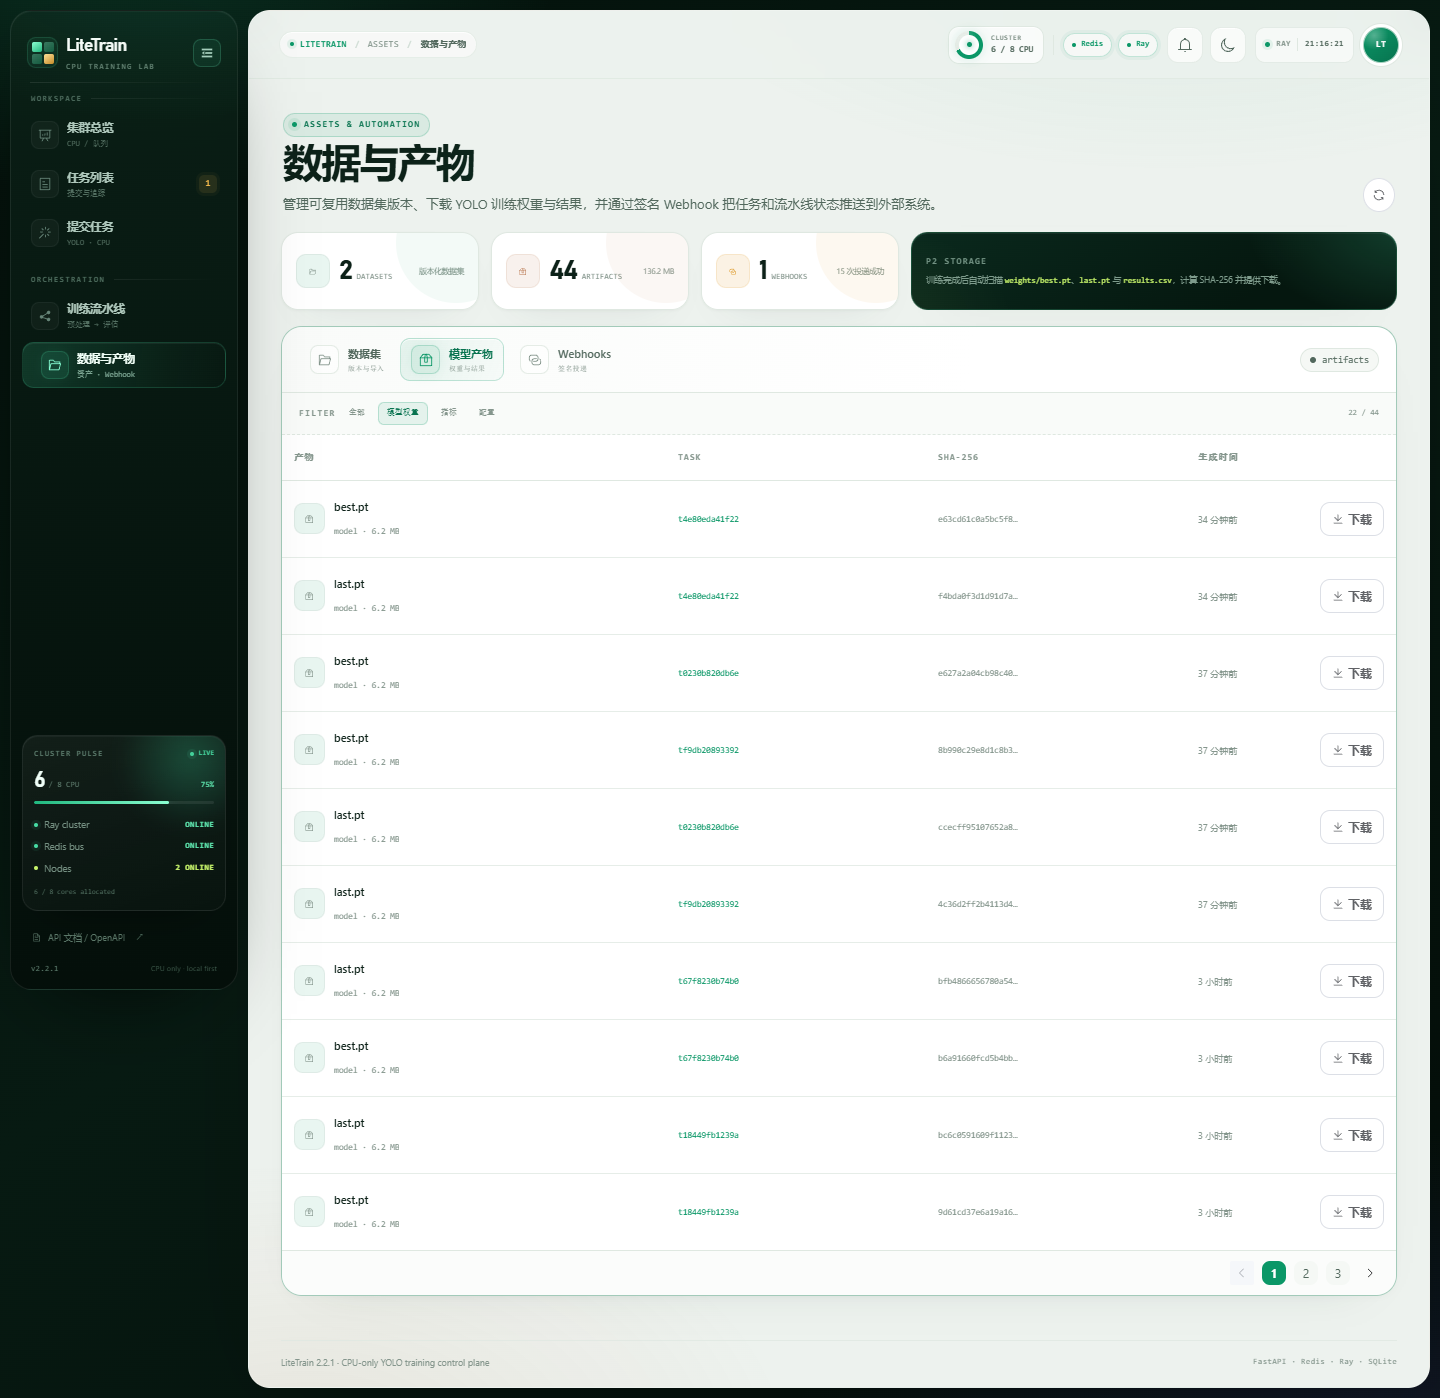
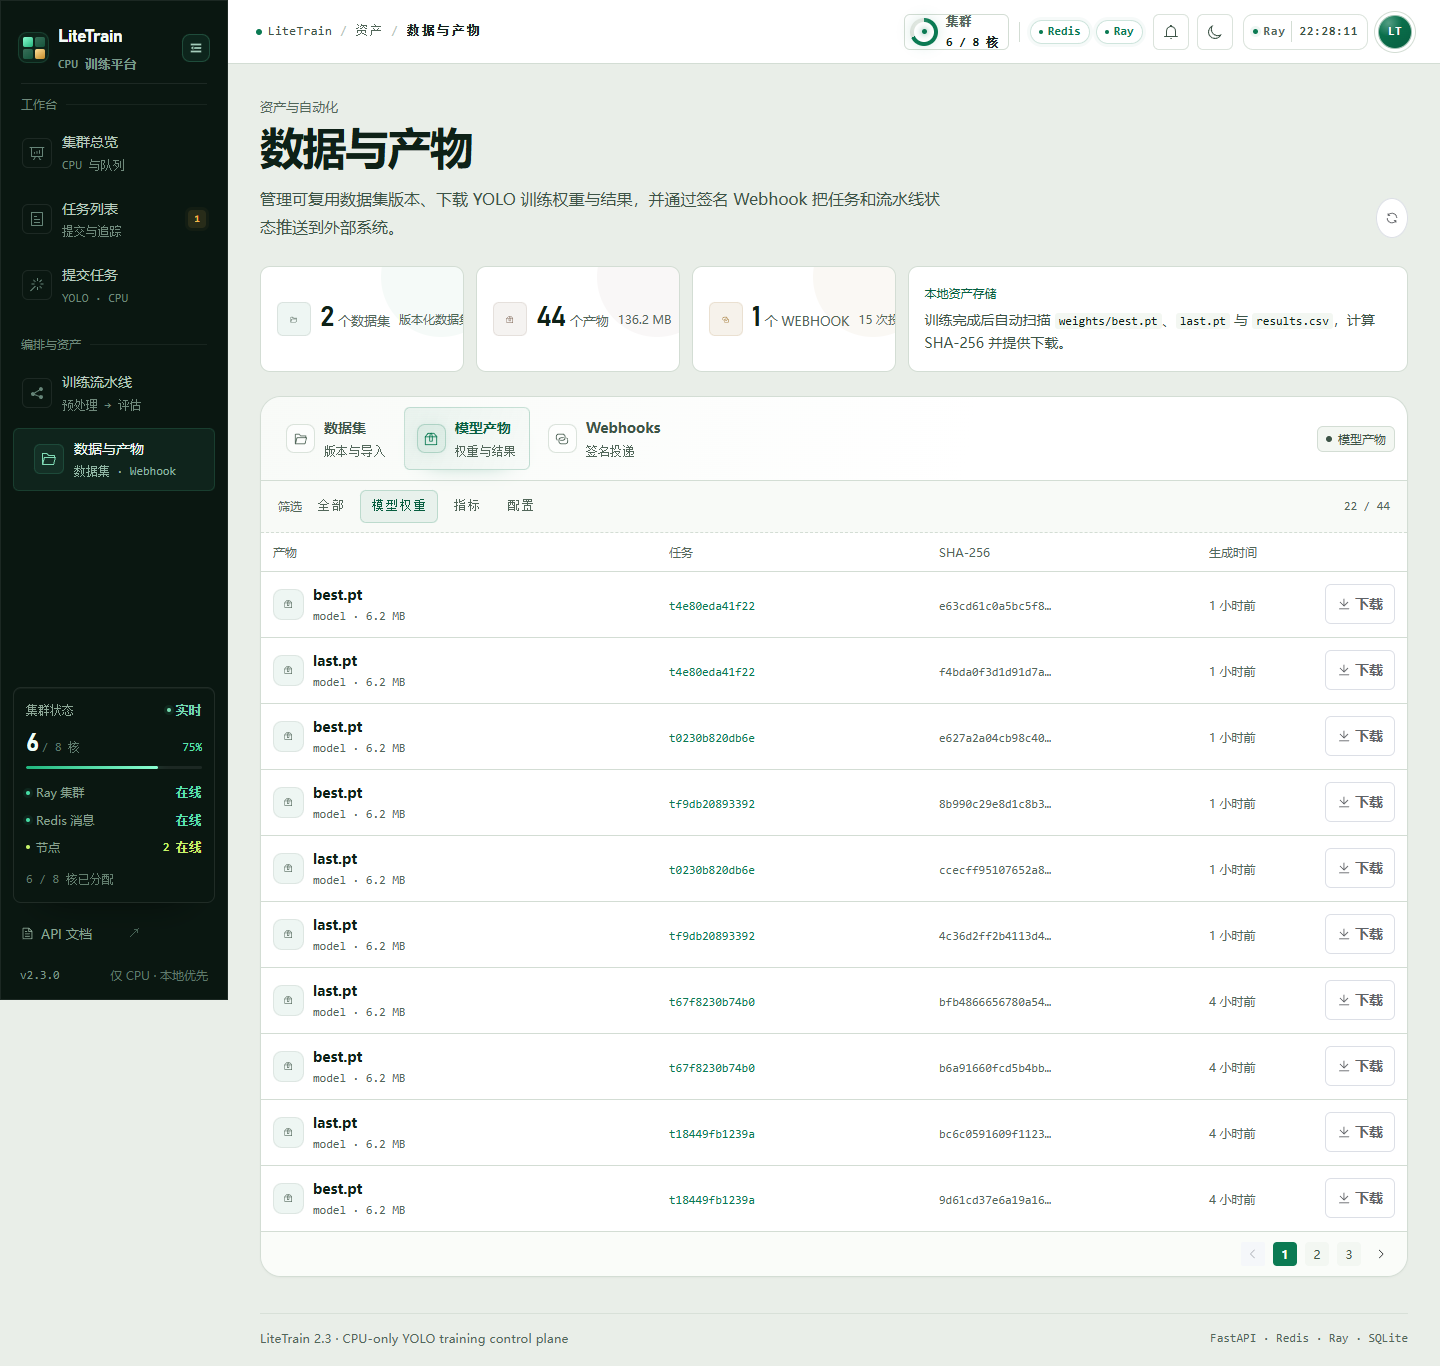
docs(web): refresh screenshots for the operations ledger

diff --git a/docs/screenshots/README.md b/docs/screenshots/README.md
@@ -3,6 +3,13 @@
 These screenshots are captured from the real running application (FastAPI + Ray +
 Redis + Vite) with Playwright-driven Microsoft Edge at a 1440×1000 viewport.
 
+The current set is **v2.3 Operations Ledger**: a flat dark navigation rail, paper
+workspace, and the live cluster topology as the single visual anchor. The redesign
+was checked at 375 / 768 / 1280 widths (no horizontal overflow) and against the
+`deepseek-frontend-design` self-check: 16px body copy, 12px minimum UI labels,
+2px visible focus, and reduced-motion fallbacks. Main text/background token pairs
+measure 5.18:1–16.82:1.
+
 | File | Page / state |
 | --- | --- |
 | `overview.png` | Multi-node overview: two 4-CPU simulated nodes each running a 3-CPU task, one task queued |
